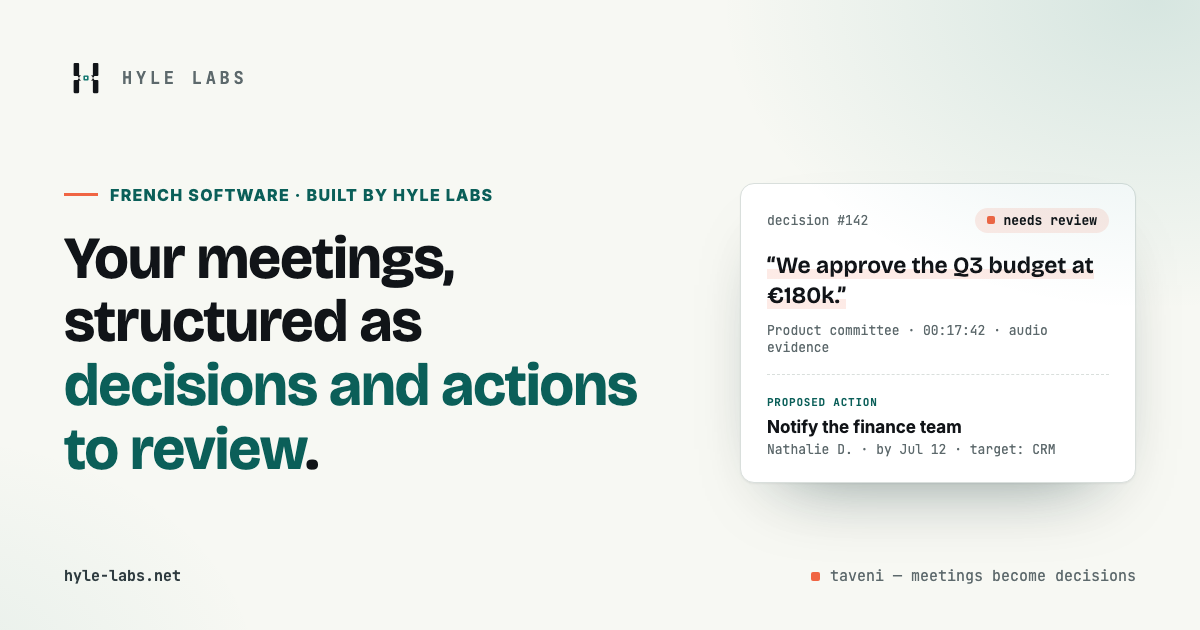
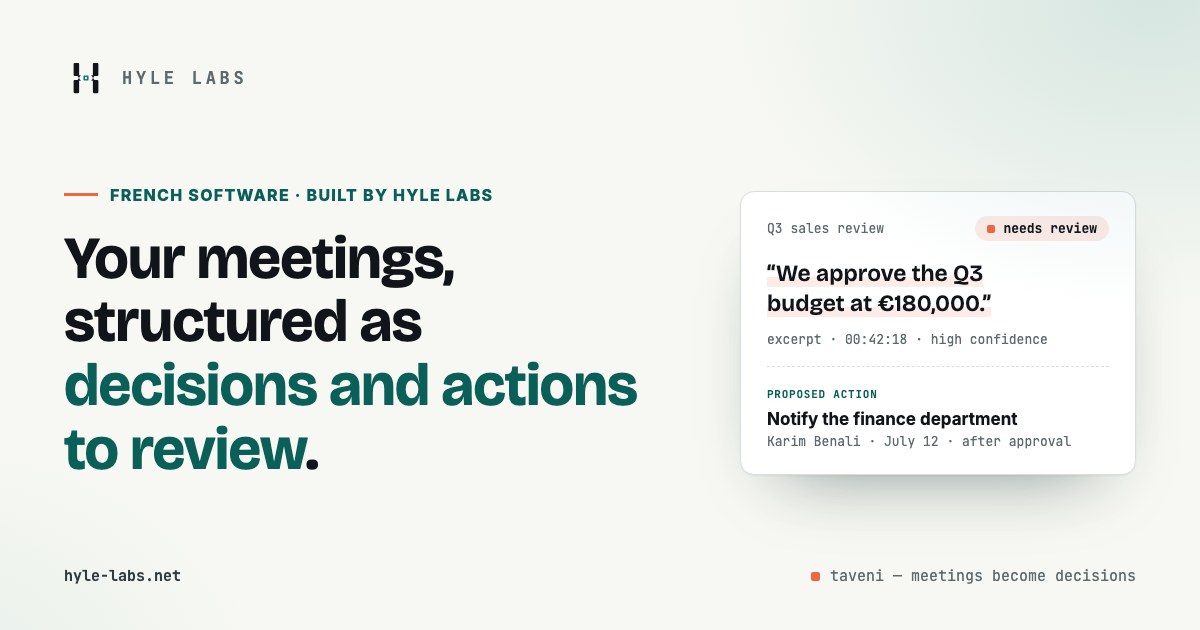
fix(site): confidentialité en thème sombre, images de partage alignées sur la démo
- /privacy/ suit le thème de l'accueil (choix de la session, sinon système),
  appliqué avant le premier rendu ; mêmes teintes sombres, liens en cyan.
  Elle restait claire alors qu'elle est désormais liée depuis l'accueil.
- Images Open Graph régénérées depuis _docs/og-template.html : la fiche
  reprend le scénario de la démo du hero (revue commerciale Q3, 00:42:18,
  Karim Benali) au lieu de la maquette « décision #142 », et remplace
  « cible : CRM » par « à valider ».

axe-core sur /privacy/ : 0 violation en clair, en sombre, sans JS et avec
une bascule faite sur l'accueil.

Changed region(s): [[0.6167, 0.3317, 0.925, 0.573], [0.6167, 0.6032, 0.8942, 0.7238], [0.6167, 0.754, 0.925, 0.7841]]

diff --git a/_docs/og-template.html b/_docs/og-template.html
@@ -131,6 +131,7 @@
         font-size: 23px;
         font-weight: 600;
         line-height: 1.3;
+        text-wrap: balance;
     }
     .dc-quote mark {
         background: linear-gradient(transparent 62%, var(--decision-wash) 62%);
@@ -196,49 +197,49 @@
         fr: {
             eyebrow: "Logiciel français · édité par Hyle Labs",
             title: 'Vos réunions, structurées en <span class="accent">décisions et actions à relire</span>.',
-            id: "décision #142",
+            id: "revue commerciale Q3",
             stamp: "à relire",
-            quote: "« On valide le budget Q3 à 180 k€. »",
-            source: "Comité produit · 00:17:42 · preuve audio",
+            quote: "« On valide le budget Q3 à 180 000 euros. »",
+            source: "extrait · 00:42:18 · confiance élevée",
             actionLabel: "action proposée",
             actionText: "Notifier la direction financière",
-            actionMeta: "Nathalie D. · pour le 12/07 · cible : CRM",
+            actionMeta: "Karim Benali · 12 juillet · à valider",
             sig: "taveni — la réunion devient décision"
         },
         en: {
             eyebrow: "French software · built by Hyle Labs",
             title: 'Your meetings, structured as <span class="accent">decisions and actions to review</span>.',
-            id: "decision #142",
+            id: "Q3 sales review",
             stamp: "needs review",
-            quote: "“We approve the Q3 budget at €180k.”",
-            source: "Product committee · 00:17:42 · audio evidence",
+            quote: "“We approve the Q3 budget at €180,000.”",
+            source: "excerpt · 00:42:18 · high confidence",
             actionLabel: "proposed action",
-            actionText: "Notify the finance team",
-            actionMeta: "Nathalie D. · by Jul 12 · target: CRM",
+            actionText: "Notify the finance department",
+            actionMeta: "Karim Benali · July 12 · after approval",
             sig: "taveni — meetings become decisions"
         },
         es: {
             eyebrow: "Software francés · creado por Hyle Labs",
             title: 'Tus reuniones, estructuradas como <span class="accent">decisiones y acciones por revisar</span>.',
-            id: "decisión #142",
+            id: "revisión comercial Q3",
             stamp: "por revisar",
-            quote: "«Aprobamos el presupuesto del Q3: 180 k€.»",
-            source: "Comité de producto · 00:17:42 · prueba de audio",
+            quote: "«Validamos el presupuesto Q3 de 180 000 euros.»",
+            source: "extracto · 00:42:18 · confianza alta",
             actionLabel: "acción propuesta",
             actionText: "Avisar a la dirección financiera",
-            actionMeta: "Nathalie D. · para el 12/07 · objetivo: CRM",
+            actionMeta: "Karim Benali · 12 de julio · a validar",
             sig: "taveni — la reunión se vuelve decisión"
         },
         zh: {
             eyebrow: "法国软件 · 由 Hyle Labs 研发",
             title: '将会议结构化为<span class="accent">待审核的决策与行动</span>。',
-            id: "决策 #142",
+            id: "Q3 销售复盘",
             stamp: "待审核",
-            quote: "“Q3 预算定为 18 万欧元。”",
-            source: "产品委员会 · 00:17:42 · 音频依据",
+            quote: "“Q3 预算批准为 18 万欧元。”",
+            source: "片段 · 00:42:18 · 高置信度",
             actionLabel: "建议行动",
-            actionText: "通知财务负责人",
-            actionMeta: "Nathalie D. · 7月12日前 · 目标：CRM",
+            actionText: "通知财务部门",
+            actionMeta: "Karim Benali · 7 月 12 日前 · 确认后才发送",
             sig: "taveni — 会议沉淀为决策"
         }
     };

diff --git a/privacy/index.html b/privacy/index.html
@@ -3,7 +3,20 @@
 <head>
     <meta charset="UTF-8">
     <meta name="viewport" content="width=device-width, initial-scale=1.0">
-    <meta name="theme-color" content="#f7f8f3">
+    <meta name="theme-color" id="theme-color-meta" content="#f7f8f3">
+    <script>
+        /* Même thème que l'accueil : choix de la session (bascule sur l'accueil), sinon
+           préférence du système. Appliqué avant le premier rendu, sans flash. */
+        (function () {
+            var session = null;
+            try { session = sessionStorage.getItem("theme"); } catch (e) {}
+            var dark = session === "dark" || (session !== "light" &&
+                window.matchMedia && matchMedia("(prefers-color-scheme: dark)").matches);
+            document.documentElement.dataset.theme = dark ? "dark" : "light";
+            var meta = document.getElementById("theme-color-meta");
+            if (meta) meta.setAttribute("content", dark ? "#0b1113" : "#f7f8f3");
+        })();
+    </script>
     <title>Politique de confidentialité | Hyle Labs</title>
     <meta name="description" content="Politique de confidentialité de Hyle Labs pour son site, ses échanges professionnels et l'outil interne SNS, notamment son intégration LinkedIn.">
     <meta name="robots" content="index, follow">
@@ -34,6 +47,34 @@
             --line: #d9dfdc;
             --teal: #0f766e;
             --deep: #0d1416;
+        }
+        /* Thème sombre, mêmes teintes que l'accueil. Sans JS, la préférence du système
+           s'applique ; avec JS, data-theme suit aussi la bascule faite sur l'accueil. */
+        @media (prefers-color-scheme: dark) {
+            :root:not([data-theme="light"]) {
+                color-scheme: dark;
+                --paper: #0b1113;
+                --surface: #121a1d;
+                --ink: #eef2ef;
+                --muted: #9aa6a3;
+                --line: #25302f;
+                --teal: #7ee7d8;
+                --deep: #eef2ef;
+                --th: #0e1517;
+                --english: #34403f;
+            }
+        }
+        :root[data-theme="dark"] {
+            color-scheme: dark;
+            --paper: #0b1113;
+            --surface: #121a1d;
+            --ink: #eef2ef;
+            --muted: #9aa6a3;
+            --line: #25302f;
+            --teal: #7ee7d8;
+            --deep: #eef2ef;
+            --th: #0e1517;
+            --english: #34403f;
         }
         * { box-sizing: border-box; }
         html { scroll-behavior: smooth; }
@@ -99,9 +140,9 @@
         }
         table { width: 100%; border-collapse: collapse; margin-top: 22px; font-size: .94rem; }
         th, td { padding: 13px 12px; border: 1px solid var(--line); text-align: left; vertical-align: top; }
-        th { background: #edf2ef; }
+        th { background: var(--th, #edf2ef); }
         code { font-family: ui-monospace, monospace; font-size: .9em; }
-        .english { border-color: #bfcaca; }
+        .english { border-color: var(--english, #bfcaca); }
         footer { padding: 28px 0 48px; color: var(--muted); font-size: .9rem; }
         @media (max-width: 680px) {
             .header-inner { align-items: flex-start; flex-direction: column; padding: 18px 0; }
